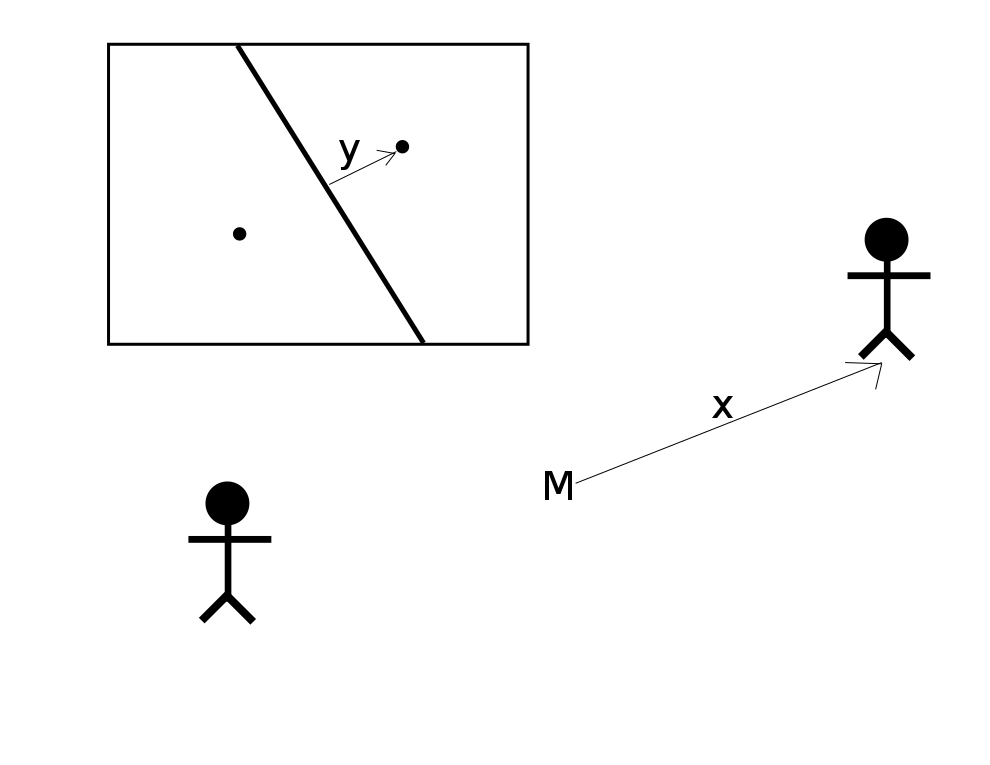
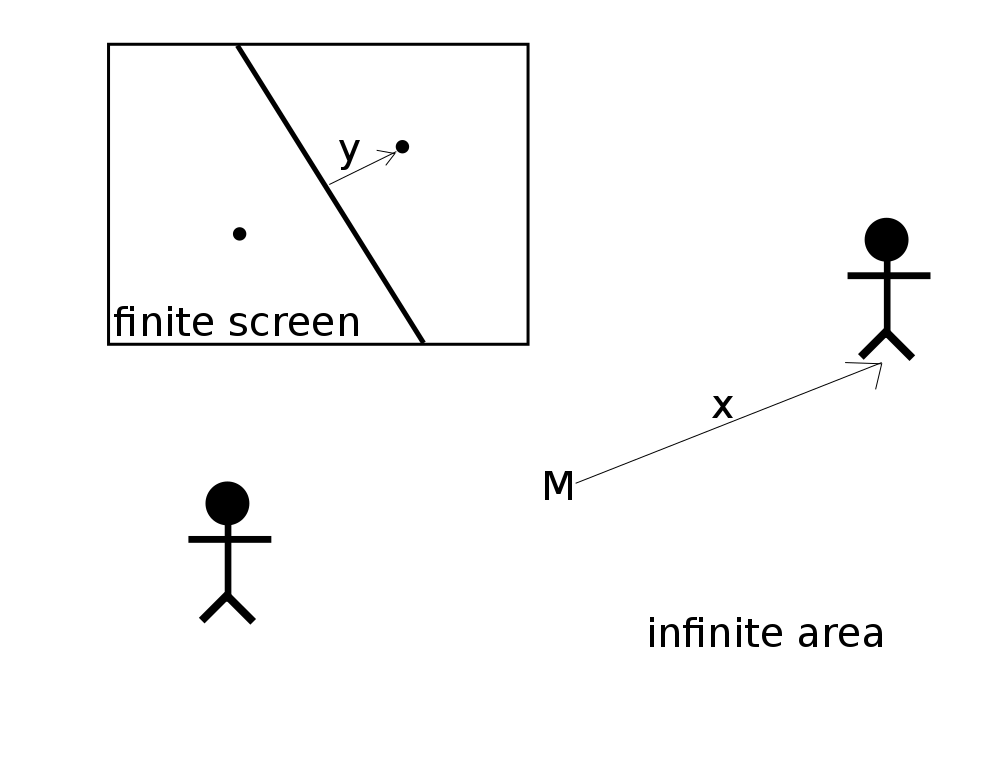
player to node clarifications.

Changed region(s): [[0.1212, 0.3908, 0.3636, 0.451], [0.6364, 0.8118, 0.9091, 0.8418]]

diff --git a/index.html b/index.html
@@ -50,8 +50,11 @@ We need to keep the node on the screen, so we need to translate a distance (whic
 
 <img src="images/atan_graph.gif">
 
-<p>We can dial 'a' up and down to change the curve, and this will get us to <b>the perfect range, 0 to 1</b>.
-That range is perfect because we can simply multiply 'y' by a constant, and now our function goes from 0 to that constant.</p>
+<p>We can dial 'a' up and down to change the curve amount, and this will get us to <b>the perfect range, 0 to 1</b>.
+That range is perfect because we can simply multiply 'y' by a constant, and now our function goes from 0 to that constant.
+So we can dial 'a' to be the max distance we want our nodes to be from the center of the screen, and our nodes will gradually get further apart as the players move apart, but well never go off the screen.</p>
+
+<p>With this, we have translated the two players' positions from player-space to node-space.</p>
 
 
 <h3>
